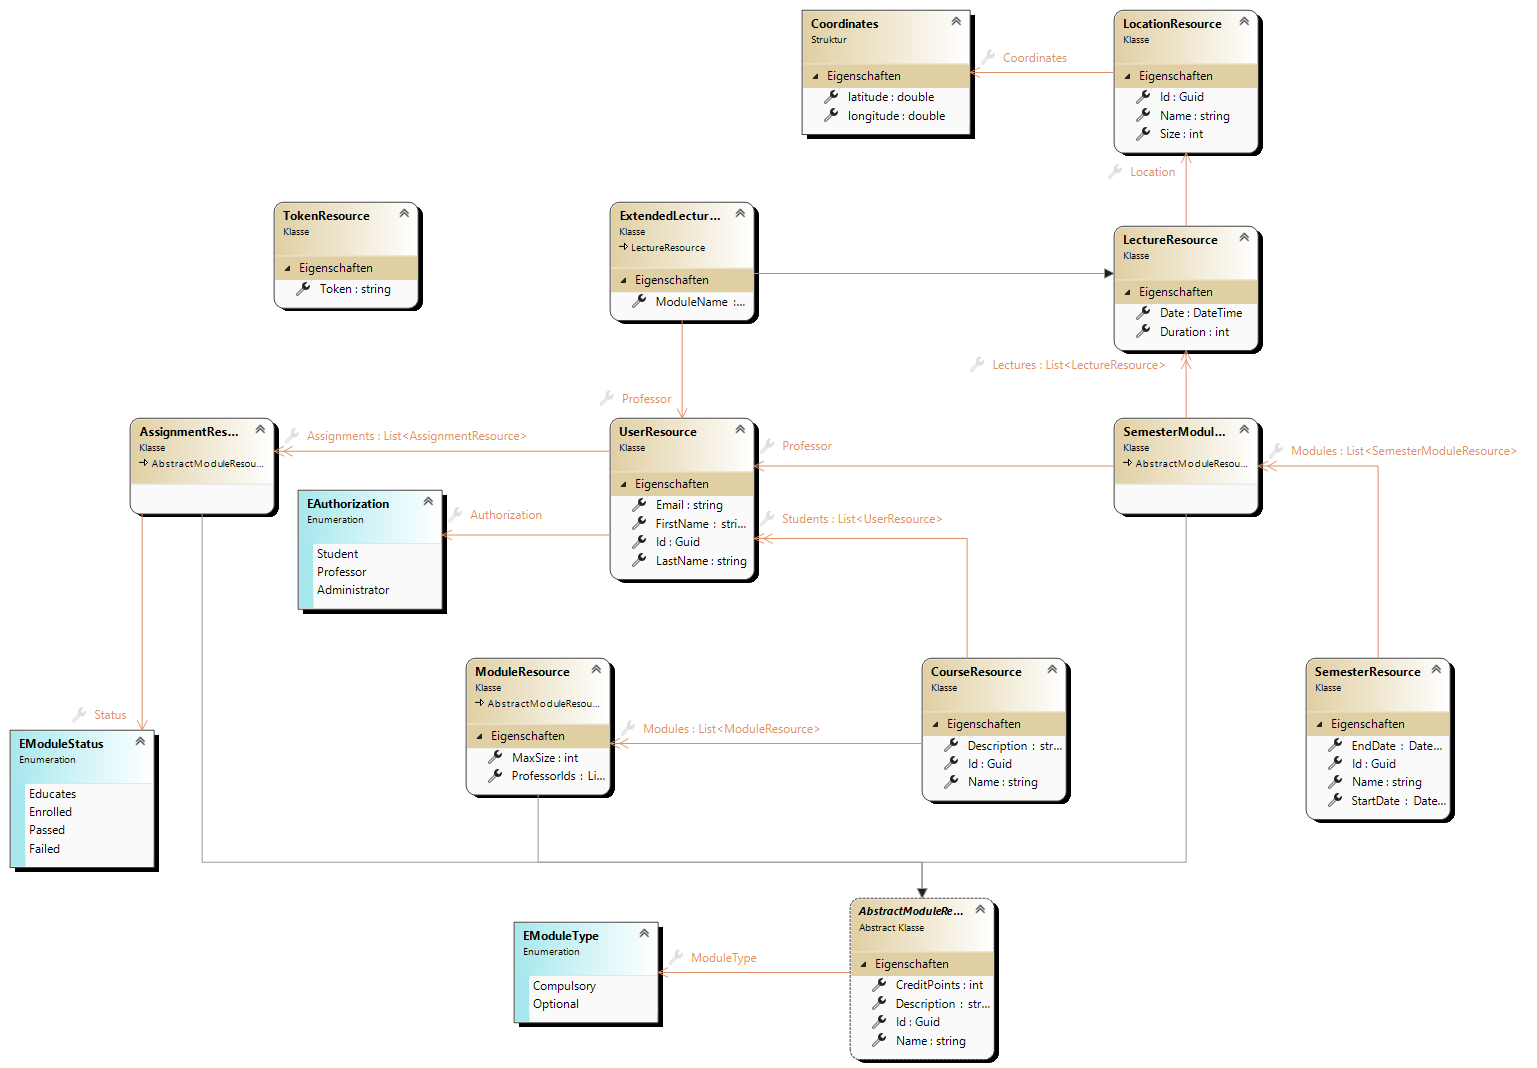
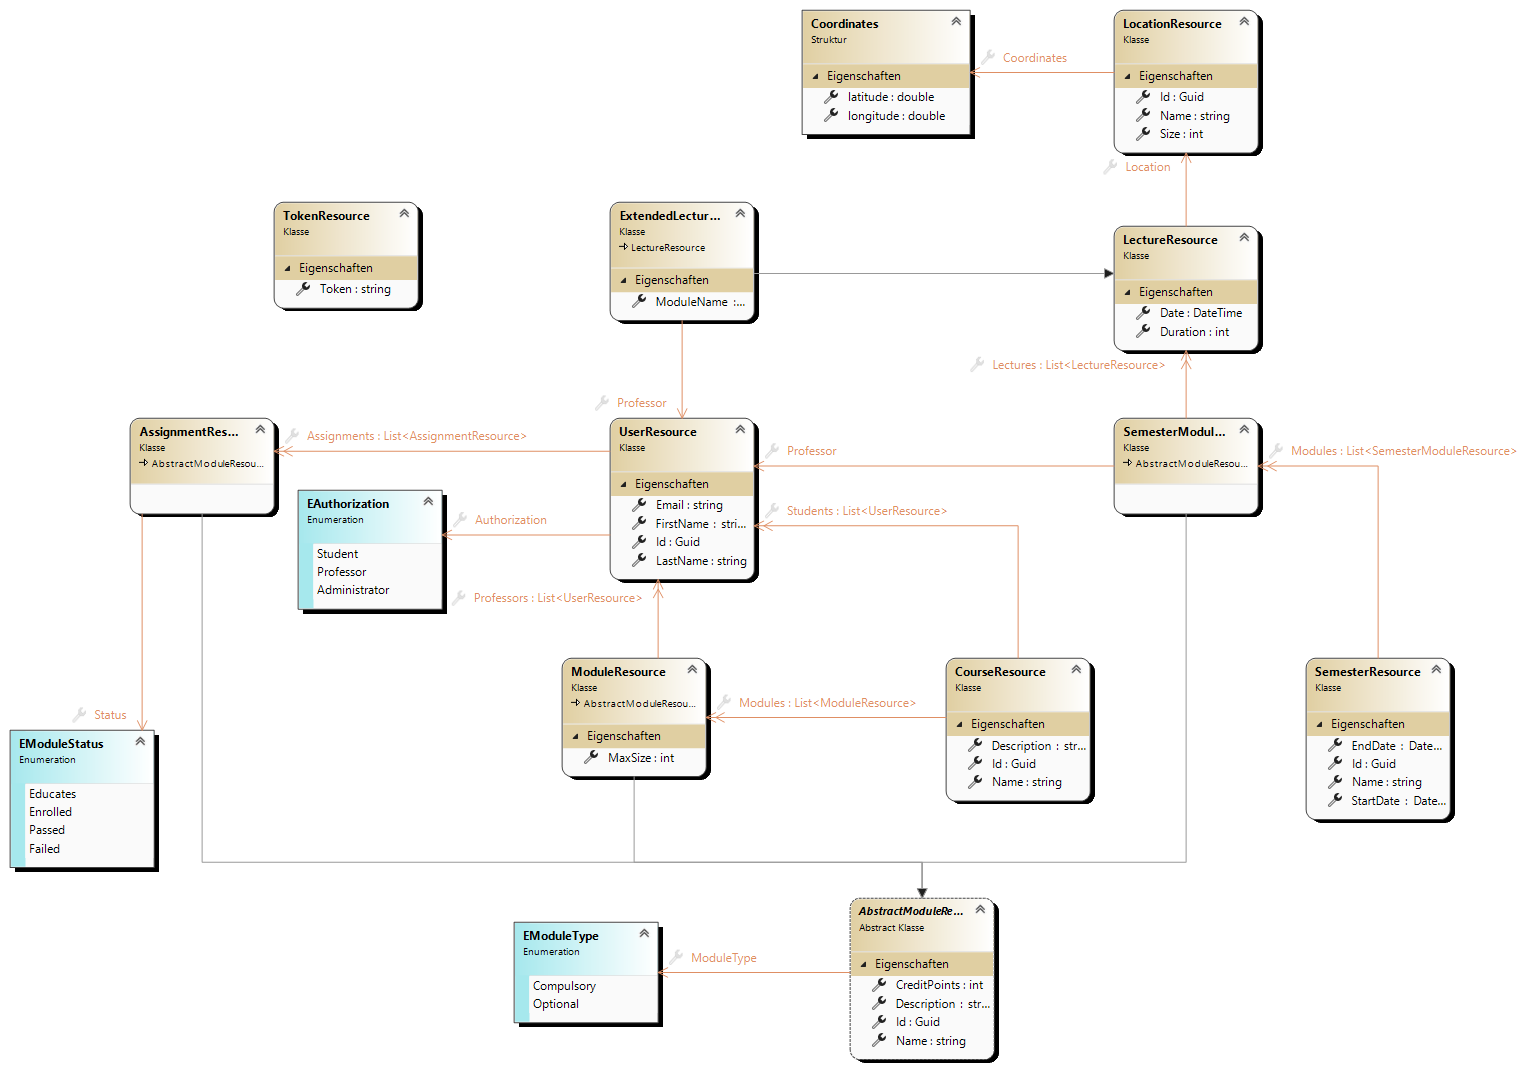
feat: module professors are now also resolved for response and optimized user & module resolve

diff --git a/University.Server/Domain/Services/ModuleService.cs b/University.Server/Domain/Services/ModuleService.cs
@@ -1,4 +1,5 @@
-using University.Server.Domain.Models;
+using Microsoft.IdentityModel.Tokens;
+using University.Server.Domain.Models;
 using University.Server.Domain.Persistence.Entities;
 using University.Server.Domain.Repositories;
 using University.Server.Domain.Services.Communication;
@@ -37,6 +38,24 @@ namespace University.Server.Domain.Services
             catch (Exception ex)
             {
                 return new Response<Module>(StatusCodes.Status500InternalServerError, $"An error occurred when saving the module: {ex.Message}");
+            }
+        }
+
+        public async Task<IEnumerable<Module>> GetManyAsync(ICollection<Guid> ids)
+        {
+            if (ids.IsNullOrEmpty())
+            {
+                return Enumerable.Empty<Module>();
+            }
+            var query = $"SELECT * FROM c WHERE c.id IN ('{string.Join("', '", ids)}')";
+            try
+            {
+                return await _moduleRepository.GetItemsAsync(query);
+            }
+            catch (Microsoft.Azure.Cosmos.CosmosException ex)
+            {
+                _logger.LogInformation($"Cosmos DB Exception for: SELECT * FROM c WHERE c.id IN ({string.Join(", ", ids)})");
+                throw ex;
             }
         }
 

diff --git a/University.Server/Domain/Services/LocationService.cs b/University.Server/Domain/Services/LocationService.cs
@@ -1,4 +1,5 @@
-using University.Server.Domain.Models;
+using Microsoft.IdentityModel.Tokens;
+using University.Server.Domain.Models;
 using University.Server.Domain.Persistence.Entities;
 using University.Server.Domain.Repositories;
 using University.Server.Domain.Services.Communication;
@@ -33,6 +34,24 @@ namespace University.Server.Domain.Services
             catch (Exception ex)
             {
                 return new Response<Location>(StatusCodes.Status500InternalServerError, $"An error occurred when saving the location: {ex.Message}");
+            }
+        }
+
+        public async Task<IEnumerable<Location>> GetManyAsync(ICollection<Guid> ids)
+        {
+            if (ids.IsNullOrEmpty())
+            {
+                return Enumerable.Empty<Location>();
+            }
+            var query = $"SELECT * FROM c WHERE c.id IN ('{string.Join("', '", ids)}')";
+            try
+            {
+                return await _locationRepository.GetItemsAsync(query);
+            }
+            catch (Microsoft.Azure.Cosmos.CosmosException ex)
+            {
+                _logger.LogInformation($"Cosmos DB Exception for: {query})");
+                throw ex;
             }
         }
 

diff --git a/University.Server/Domain/Services/SemesterService.cs b/University.Server/Domain/Services/SemesterService.cs
@@ -1,4 +1,5 @@
-using University.Server.Domain.Models;
+using Microsoft.IdentityModel.Tokens;
+using University.Server.Domain.Models;
 using University.Server.Domain.Persistence.Entities;
 using University.Server.Domain.Repositories;
 using University.Server.Domain.Services.Communication;
@@ -35,6 +36,24 @@ namespace University.Server.Domain.Services
             catch (Exception ex)
             {
                 return new Response<Semester>(StatusCodes.Status500InternalServerError, $"An error occurred when saving the semester: {ex.Message}");
+            }
+        }
+
+        public async Task<IEnumerable<Semester>> GetManyAsync(ICollection<Guid> ids)
+        {
+            if (ids.IsNullOrEmpty())
+            {
+                return Enumerable.Empty<Semester>();
+            }
+            var query = $"SELECT * FROM c WHERE c.id IN ('{string.Join("', '", ids)}')";
+            try
+            {
+                return await _semesterRepository.GetItemsAsync(query);
+            }
+            catch (Microsoft.Azure.Cosmos.CosmosException ex)
+            {
+                _logger.LogInformation($"Cosmos DB Exception for: {query})");
+                throw ex;
             }
         }
 

diff --git a/University.Server/Domain/Services/CourseService.cs b/University.Server/Domain/Services/CourseService.cs
@@ -1,4 +1,5 @@
-using University.Server.Domain.Models;
+using Microsoft.IdentityModel.Tokens;
+using University.Server.Domain.Models;
 using University.Server.Domain.Persistence.Entities;
 using University.Server.Domain.Repositories;
 using University.Server.Domain.Services.Communication;
@@ -38,6 +39,24 @@ namespace University.Server.Domain.Services
             catch (Exception ex)
             {
                 return new Response<Course>(StatusCodes.Status500InternalServerError, $"An error occurred when saving the course: {ex.Message}");
+            }
+        }
+
+        public async Task<IEnumerable<Course>> GetManyAsync(ICollection<Guid> ids)
+        {
+            if (ids.IsNullOrEmpty())
+            {
+                return Enumerable.Empty<Course>();
+            }
+            var query = $"SELECT * FROM c WHERE c.id IN ('{string.Join("', '", ids)}')";
+            try
+            {
+                return await _courseRepository.GetItemsAsync(query);
+            }
+            catch (Microsoft.Azure.Cosmos.CosmosException ex)
+            {
+                _logger.LogInformation($"Cosmos DB Exception for: {query})");
+                throw ex;
             }
         }
 

diff --git a/University.Server/Domain/Services/UserService.cs b/University.Server/Domain/Services/UserService.cs
@@ -1,4 +1,5 @@
-using System.Security.Cryptography;
+using Microsoft.IdentityModel.Tokens;
+using System.Security.Cryptography;
 using System.Text;
 using University.Server.Domain.Models;
 using University.Server.Domain.Persistence.Entities;
@@ -61,6 +62,24 @@ namespace University.Server.Domain.Services
             catch (Exception ex)
             {
                 return new Response<User>(StatusCodes.Status500InternalServerError, $"An error occurred when saving the user: {ex.Message}");
+            }
+        }
+
+        public async Task<IEnumerable<User>> GetManyAsync(ICollection<Guid> ids)
+        {
+            if (ids.IsNullOrEmpty())
+            {
+                return Enumerable.Empty<User>();
+            }
+            var query = $"SELECT * FROM c WHERE c.id IN ('{string.Join("', '", ids)}')";
+            try
+            {
+                return await _userRepository.GetItemsAsync(query);
+            }
+            catch (Microsoft.Azure.Cosmos.CosmosException ex)
+            {
+                _logger.LogInformation($"Cosmos DB Exception for: {query})");
+                throw ex;
             }
         }
 

diff --git a/University.Server/Mapping/Actions/ResolveModuleRelationsAction.cs b/University.Server/Mapping/Actions/ResolveModuleRelationsAction.cs
@@ -1,0 +1,22 @@
+using AutoMapper;
+using University.Server.Domain.Models;
+using University.Server.Domain.Services;
+using University.Server.Resources.Response;
+
+namespace University.Server.Mapping.Actions
+{
+    public class ResolveModuleRelationsAction : IMappingAction<Module, ModuleResource>
+    {
+        private readonly IUserService _userService;
+
+        public ResolveModuleRelationsAction(IUserService userService)
+        {
+            _userService = userService ?? throw new ArgumentNullException(nameof(userService));
+        }
+
+        public void Process(Module source, ModuleResource destination, ResolutionContext context)
+        {
+            destination.Professors = source.ProfessorIds.Select(id => context.Mapper.Map<UserResource>(_userService.GetAsyncNullable(id).GetAwaiter().GetResult())).ToList();
+        }
+    }
+}

diff --git a/University.Server/Mapping/ModelToResourceProfile.cs b/University.Server/Mapping/ModelToResourceProfile.cs
@@ -1,5 +1,6 @@
 using AutoMapper;
 using University.Server.Domain.Models;
+using University.Server.Mapping.Actions;
 using University.Server.Mapping.Converter;
 using University.Server.Resources;
 using University.Server.Resources.Response;
@@ -21,7 +22,8 @@ namespace University.Server.Mapping
                 {
                     return user.Assignments.Select(assignment => context.Mapper.Map<Assignment, AssignmentResource>(assignment));
                 }));
-            CreateMap<Module, ModuleResource>();
+            CreateMap<Module, ModuleResource>()
+                .AfterMap<ResolveModuleRelationsAction>();
             CreateMap<Course, CourseResource>()
                 .ForMember(dest => dest.Students, opt => opt.MapFrom((course, courseResource, i, context) =>
                 {

diff --git a/University.Server/Mapping/Actions/ResolveModulesPatchAction.cs b/University.Server/Mapping/Actions/ResolveModulesPatchAction.cs
@@ -16,8 +16,8 @@ namespace University.Server.Mapping.Actions
 
         public void Process(PatchResource source, PatchModel<Module> destination, ResolutionContext context)
         {
-            destination.AddEntity = source.Add.Select(id => _moduleService.GetAsyncNullable(id).GetAwaiter().GetResult()).ToList();
-            destination.RemoveEntity = source.Remove.Select(id => _moduleService.GetAsyncNullable(id).GetAwaiter().GetResult()).ToList();
+            destination.AddEntity = _moduleService.GetManyAsync(source.Add).GetAwaiter().GetResult().ToList();
+            destination.RemoveEntity = _moduleService.GetManyAsync(source.Remove).GetAwaiter().GetResult().ToList();
         }
     }
 }

diff --git a/University.Server/Mapping/Actions/ResolveCourseRelationsAction.cs b/University.Server/Mapping/Actions/ResolveCourseRelationsAction.cs
@@ -18,8 +18,8 @@ namespace University.Server.Mapping.Actions
 
         public void Process(CourseEntity source, Course destination, ResolutionContext context)
         {
-            destination.Students = source.StudentIds.Select(id => _userService.GetAsyncNullable(id).GetAwaiter().GetResult()).ToList();
-            destination.Modules = source.ModuleIds.Select(id => _moduleService.GetAsyncNullable(id, false).GetAwaiter().GetResult()).ToList();
+            destination.Students = _userService.GetManyAsync(source.StudentIds).GetAwaiter().GetResult().ToList();
+            destination.Modules = _moduleService.GetManyAsync(source.ModuleIds).GetAwaiter().GetResult().ToList();
         }
     }
 }

diff --git a/University.Server/Mapping/Actions/ResolveUsersPatchAction.cs b/University.Server/Mapping/Actions/ResolveUsersPatchAction.cs
@@ -16,8 +16,8 @@ namespace University.Server.Mapping.Actions
 
         public void Process(PatchResource source, PatchModel<User> destination, ResolutionContext context)
         {
-            destination.AddEntity = source.Add.Select(id => _userService.GetAsyncNullable(id).GetAwaiter().GetResult()).ToList();
-            destination.RemoveEntity = source.Remove.Select(id => _userService.GetAsyncNullable(id).GetAwaiter().GetResult()).ToList();
+            destination.AddEntity = _userService.GetManyAsync(source.Add).GetAwaiter().GetResult().ToList();
+            destination.RemoveEntity = _userService.GetManyAsync(source.Remove).GetAwaiter().GetResult().ToList();
         }
     }
 }

diff --git a/University.Server/Domain/Services/IModuleService.cs b/University.Server/Domain/Services/IModuleService.cs
@@ -6,6 +6,7 @@ namespace University.Server.Domain.Services
     public interface IModuleService
     {
         Task<Response<Module>> SaveAsync(Module module);
+        Task<IEnumerable<Module>> GetManyAsync(ICollection<Guid> ids);
         Task<Module?> GetAsyncNullable(Guid id, bool excludeArchived = true);
         Task<Response<Module>> GetAsync(Guid id);
         Task<IEnumerable<Module>> ListAsync(EModuleType? moduleType);

diff --git a/University.Server/Domain/Services/IUserService.cs b/University.Server/Domain/Services/IUserService.cs
@@ -7,6 +7,7 @@ namespace University.Server.Domain.Services
     {
         Task<User?> GetUserByCredentials(string email, string password);
         Task<Response<User>> SaveAsync(User user);
+        Task<IEnumerable<User>> GetManyAsync(ICollection<Guid> ids);
         Task<User?> GetAsyncNullable(Guid id);
         Task<Response<User>> GetAsync(Guid id);
         Task<IEnumerable<User>> ListAsync(EAuthorization? authorization);
